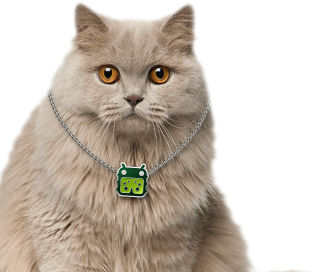
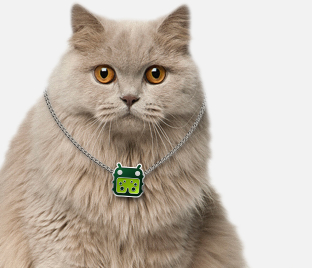
fix: change disable styles, setup eslint

diff --git a/src/components/Cards/Card/Card.scss b/src/components/Cards/Card/Card.scss
@@ -1,18 +1,11 @@
-// @import '../../variables';
-
 $borderWidth: 4px;
 
 .card {
-  width: 312px;
-  min-height: 520px;
+
   border-color: var(--card-theme);
-  display: grid;
-  grid-template-rows: 40px 1fr auto;
-  justify-items: end;
   z-index: 0;
   border-radius: 15px;
   position: relative;
-  cursor: pointer;
 
   &--leave {
     --card-theme: var(--accent-color-leave);
@@ -35,31 +28,30 @@ $borderWidth: 4px;
   }
 
   &--disable .card__title,
-  &--disable .card__header,
+  &--disable .card__header-text,
   &--disable .card__text {
-    color: var(--disable-color);
+    color: var(--disable-text-color);
   }
 
-  &--disable .card__content {
-    filter: contrast(0.3) brightness(1.3);
+  &--disable .card__image {
+    opacity: 0.5;
   }
 
-  &::before {
-    content: "";
-    display: block;
-    position: absolute;
-    top: 17px;
-    left: -2px;
-    z-index: -1;
-    transform: rotate(-43deg);
-    background: var(--default-color);
-    width: 58px;
-    height: 40px;
+  &__content {
+    width: 320px;
+    min-height: 480px;
+    display: grid;
+    grid-template-rows: 40px 1fr;
+    justify-items: end;
+    // width: calc(100% + $borderWidth*2);
+    position: relative;
+    border-color: inherit;
+    cursor: pointer;
   }
 
   &__header {
-    width: calc(100% - 36px);
-    background: var(--default-color);
+    width: calc(100% - 40px);
+    background: var(--card-bg-color);
     border-color: inherit;
     border-style: solid;
     border-width: $borderWidth $borderWidth 0 0;
@@ -67,42 +59,63 @@ $borderWidth: 4px;
     overflow: hidden;
     box-sizing: border-box;
     padding-top: 18px;
-    padding-left: 7px;
+    padding-left: 10px;
 
     &--angry-cat {
       color: #E62E7A;
     }
 
+    &::before {
+      content: "";
+      display: block;
+      position: absolute;
+      top: 16px;
+      left: 5px;
+      z-index: -1;
+      transform: rotate(-46deg);
+      background: var(--card-bg-color);
+      width: 58px;
+      height: 40px;
+    }
+
     &::after {
-      z-index: 1;
       content: "";
       display: block;
       position: absolute;
       top: 19px;
-      left: -13px;
-      transform: rotate(-43deg);
-      background-color: var(--default-color);
-      width: 58px;
+      left: -6px;
+      transform: rotate(-45deg);
+      width: 57px;
       height: 0px;
       border-color: inherit;
       border-style: solid;
-      border-width: $borderWidth 0 0 0;
+      border-width: 4px 0 0 0;
     }
   }
 
-  &__content {
-    width: calc(100% + $borderWidth*2);
-    position: relative;
-    box-sizing: border-box;
-    padding-left: 46px;
-    background-color: var(--default-color);
+  &__header-text {
+    margin: 0;
+    color: var(--secondaty-text-color);
+    font-weight: 400;
+    font-size: 16px;
+    line-height: 19px;
+  }
+
+  &__main {
+    width: 100%;
+    overflow: hidden;
+    display: grid;
+    grid-template-rows: 1fr auto;
+    background-color: var(--card-bg-color);
     border-color: inherit;
     border-style: solid;
     border-width: 0 $borderWidth $borderWidth $borderWidth;
     border-radius: 0 0 10px 10px;
-    background-image: url('../../../assets/cat.jpg');
-    background-repeat: no-repeat;
-    background-position: bottom;
+    box-sizing: border-box;
+  }
+
+  &__properties {
+    padding-left: 46px;
   }
 
   &__title {
@@ -132,11 +145,12 @@ $borderWidth: 4px;
     }
   }
 
+  &__image {
+    width: 100%;
+  }
+
   &__buy {
-    width: calc(100% + 8px);
-    height: 40px;
-    box-sizing: border-box;
-    margin-left: -4px;
+    height: 43px;
     justify-self: center;
     display: flex;
     justify-content: center;
@@ -169,8 +183,8 @@ $borderWidth: 4px;
     width: 80px;
     height: 80px;
     position: absolute;
-    bottom: 12px;
-    right: 12px;
+    bottom: 16px;
+    right: 16px;
     background-color: var(--card-theme);
     color: var(--default-color);
     border-radius: 50%;

diff --git a/src/components/Cards/Card/Card.jsx b/src/components/Cards/Card/Card.jsx
@@ -1,6 +1,7 @@
 /* eslint-disable react/prop-types */
 import React, { useState } from 'react';
 import './Card.scss';
+import catImage from '../../../assets/cat.jpg';
 
 const Card = (props) => {
   const {
@@ -29,14 +30,13 @@ const Card = (props) => {
   };
 
   const createBuyText = () => {
-    console.log(titleAdd);
     if (disabled) {
-      return <span className="card__buy--disable">Печалька, {titleAdd} закончился.</span>
+      return <span className="card__buy--disable">Печалька, {titleAdd} закончился.</span>;
     }
     if (active) {
-      return composition
-    } else {
-      return <>
+      return composition;
+    }
+    return <>
         Чего сидишь ? Порадуй котэ,
         <button
           className="card__botton-buy"
@@ -44,31 +44,36 @@ const Card = (props) => {
           onMouseEnter={mouseEnter}
           onMouseLeave={mouseLeave}
         >купи</button>.
-      </>
-    }
-  }
+      </>;
+  };
 
   return (
     <div className={`card ${active ? 'card--active' : ''} ${leave ? 'card--leave' : ''} ${disabled ? 'card--disable' : ''}`}>
-      <div
-        className="card__header"
-        onClick={toggleActive}
-        onMouseEnter={mouseEnter}
-        onMouseLeave={mouseLeave}
-      >{active && leave ? 'Котэ не одобряет?' : 'Сказочное заморское яство'}</div>
       <div
         className="card__content"
         onClick={toggleActive}
         onMouseEnter={mouseEnter}
         onMouseLeave={mouseLeave}
       >
-        <h2 className="card__title">
-          {title}<br/>
-          <span className="card__title--little">{titleAdd}</span>
-        </h2>
-        <p className="card__text"><b>{portionCount + ' '}</b>{portionText}</p>
-        <p className="card__text"><b>{mouseCount + ' '}</b>{mouseText}</p>
-        {textAdd && <p className="card__text">{textAdd}</p>}
+        <header className="card__header">
+          {active && leave
+            ? <p className="card__header-text">Котэ не одобряет?</p>
+            : <p className="card__header-text">Сказочное заморское яство</p>}
+        </header>
+
+        <div className="card__main">
+          <div className="card__properties">
+            <h2 className="card__title">
+              {title}<br />
+              <span className="card__title--little">{titleAdd}</span>
+            </h2>
+            <p className="card__text"><b>{portionCount + ' '}</b>{portionText}</p>
+            <p className="card__text"><b>{mouseCount + ' '}</b>{mouseText}</p>
+            {textAdd && <p className="card__text">{textAdd}</p>}
+          </div>
+          <img className="card__image" src={catImage} alt="Голодный и злой кот" />
+        </div>
+
         <div className="card__weight">
           <span className="card__weight--count">{weight}</span>
           <br />

diff --git a/src/components/Cards/Cards.jsx b/src/components/Cards/Cards.jsx
@@ -6,11 +6,11 @@ const initialState = [
   {
     disabled: 'false',
     title: 'Нямушка',
-    titleAdd: 'с рыбой',
+    titleAdd: 'с фуа-гра',
     composition: 'Головы щучьи с чесноком да свежайшая сёмгушка.',
     portionCount: '10',
     portionText: 'порций',
-    weight: '2',
+    weight: '0,5',
     mouseCount: '',
     mouseText: 'мышь в подарок',
     textAdd: ''
@@ -18,11 +18,11 @@ const initialState = [
   {
     disabled: 'true',
     title: 'Нямушка',
-    titleAdd: 'с фуа-гра',
+    titleAdd: 'с рыбой',
     composition: 'Печень утки разварная с артишоками.',
     portionCount: '40',
     portionText: 'порций',
-    weight: '0,5',
+    weight: '2',
     mouseCount: '2',
     mouseText: 'мыши в подарок',
     textAdd: ''

diff --git a/src/components/_variables.scss b/src/components/_variables.scss
@@ -2,12 +2,14 @@
   --primary-text-color: #000000;
   --secondaty-text-color: #666666;
   --default-color: #FFFFFF;
+  --card-bg-color: #F2F2F2;
 
   --accent-color: #1698D9;
   --accent-color-leave: #2EA8E6;
   --active-color: #D91667;
   --active-color-leave: #E52E7A;
   --disable-color: #B3B3B3;
+  --disable-text-color: #D2D2D2;
 
   --card-theme: var(--accent-color);
 }

diff --git a/src/components/Cards/Cards.scss b/src/components/Cards/Cards.scss
@@ -2,7 +2,7 @@
   padding: 0 10px;
   display: flex;
   flex-wrap: wrap;
-  gap: 88px;
+  gap: 80px;
   align-items: center;
   justify-content: center;
 }

diff --git a/README.md b/README.md
@@ -1,1 +1,5 @@
+## Ссылка на приложение:
 # [gh-pages](https://skyhobbit36.github.io/funbox/)
+
+## Описание:
+Состояние приложения описано в компоненте src/components/Cards.jsx
